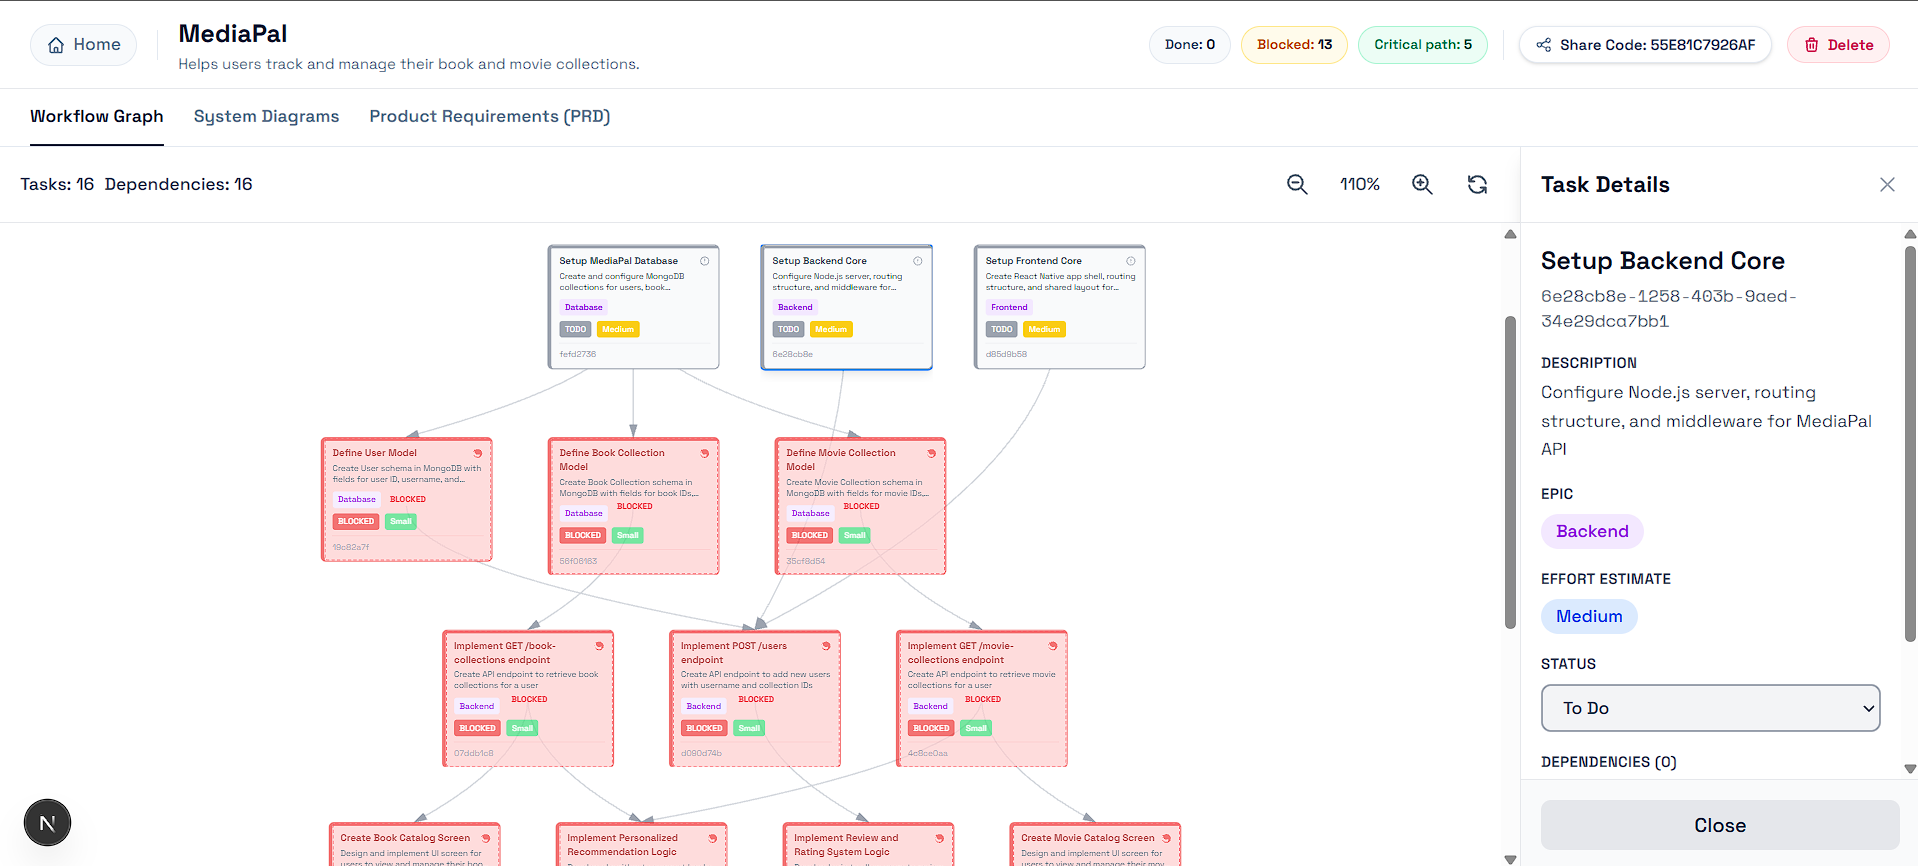
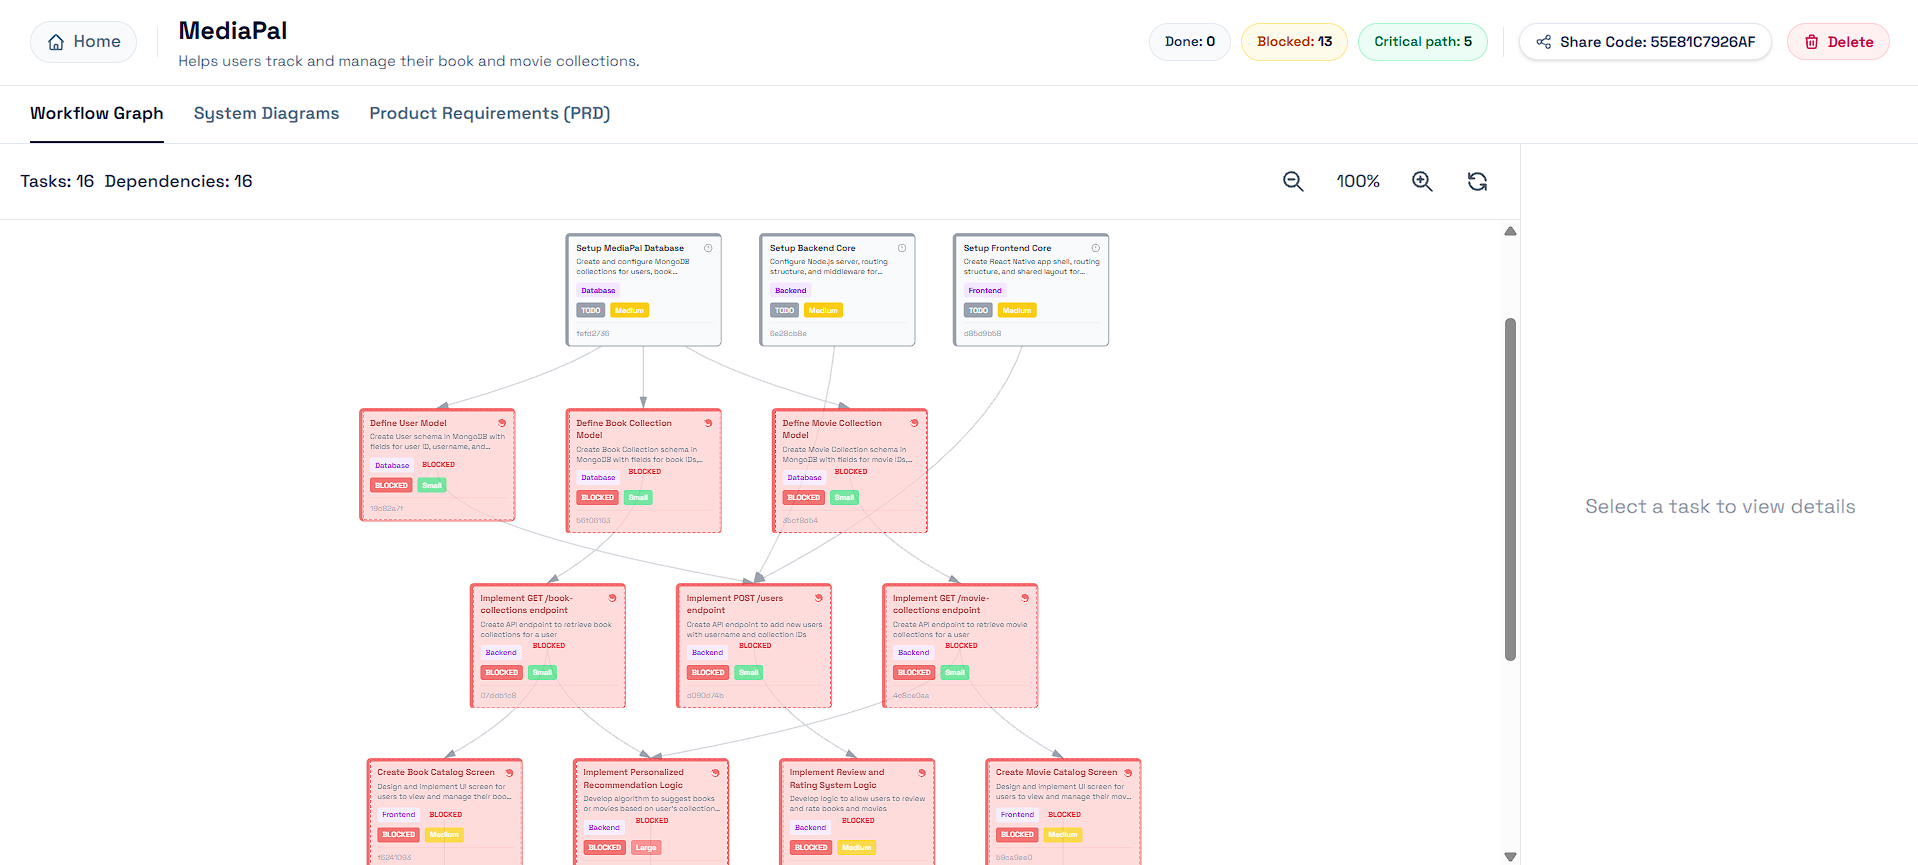
Edit Project screenshots and Page title

diff --git a/src/app/layout.tsx b/src/app/layout.tsx
@@ -3,16 +3,16 @@ import "./globals.css";
 import Navbar from "../components/Navbar";
 
 export const metadata: Metadata = {
-  title: "Asim - Frontend Engineer",
-  description: "Senior frontend engineer specializing in React, TypeScript, and Next.js",
-  keywords: ["frontend", "typescript", "react", "next.js", "portfolio"],
+  title: "Asim - Full-Stack Developer",
+  description: "Senior full-stack developer specializing in React, TypeScript, and Next.js",
+  keywords: ["full-stack", "typescript", "react", "next.js", "portfolio"],
   authors: [{ name: "Asim" }],
   openGraph: {
     type: "website",
     locale: "en_US",
     url: "https://www.asimrupani.engineer",
-    title: "Asim - Frontend Engineer",
-    description: "Senior frontend engineer specializing in React, TypeScript, and Next.js",
+    title: "Asim - Full-Stack Developer",
+    description: "Senior full-stack developer specializing in React, TypeScript, and Next.js",
   },
 };
 